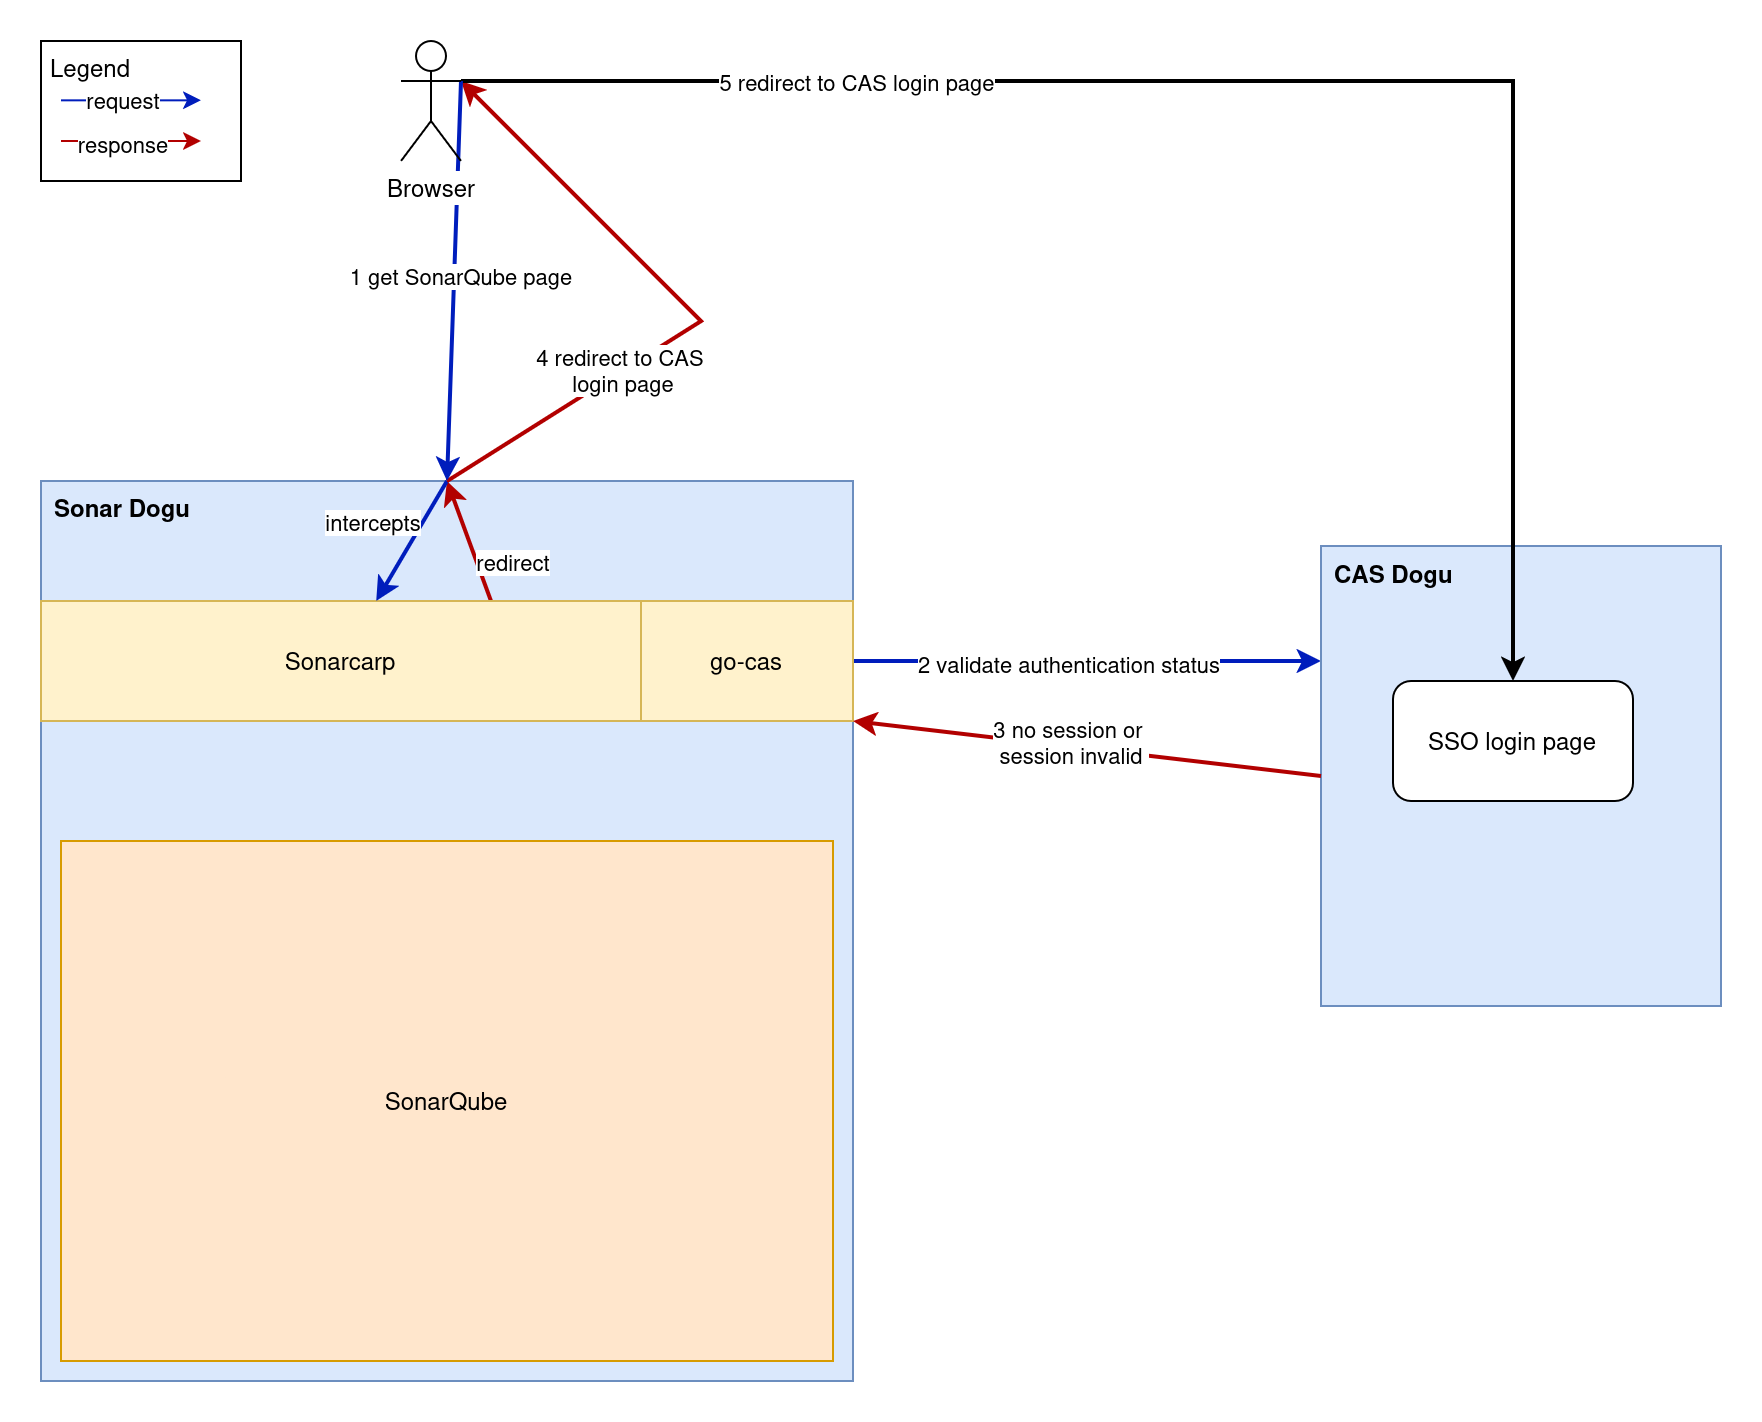
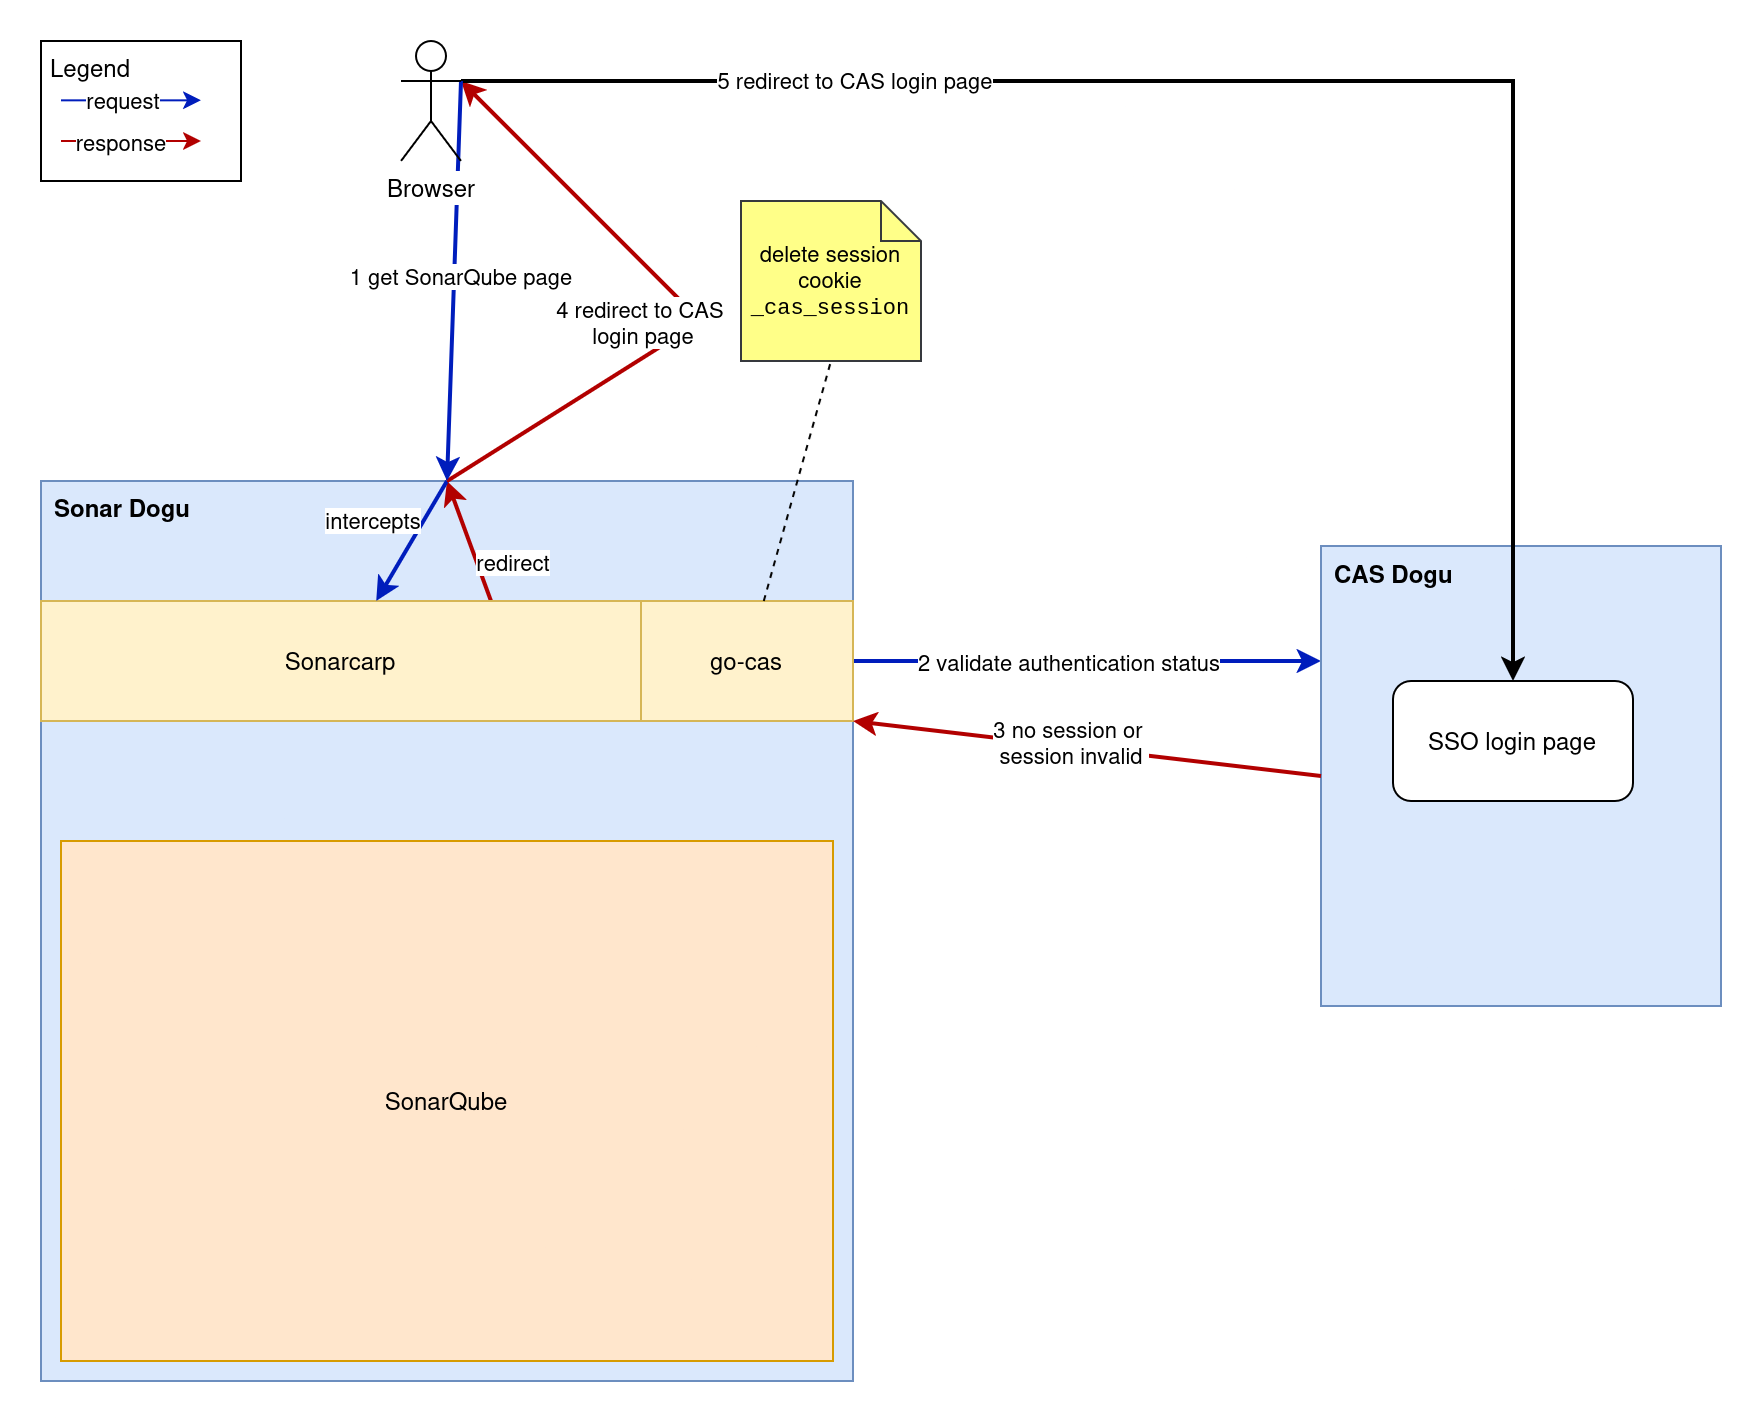
#148 Add logout images, update other images

diff --git a/docs/development/understanding_sonarcarp.de.md b/docs/development/understanding_sonarcarp.de.md
@@ -81,6 +81,8 @@ Frontchannel Log-out funktioniert aktuell wiefolgt:
    - macht einen Redirect zum CAS-Logout, das einen Backchannel-Logout gegenüber allen registrierten Services (inkl. SonarQube) durchführt
 5. Es folgt ein Backchannel-Logout, den Sonarcarp entgegennimmt und den eigenen Zustand aufräumt (siehe unten).
 
+![](images/sonarcarp_and_sonarqube-frontchannel_logout.png "Diagramm, wie ein Logout in SonarQube zu Single-Logout aller anderen Dogus führt")
+
 #### Backchannel Log-out 
 
 Backchannel Log-out funktioniert aktuell wiefolgt:
